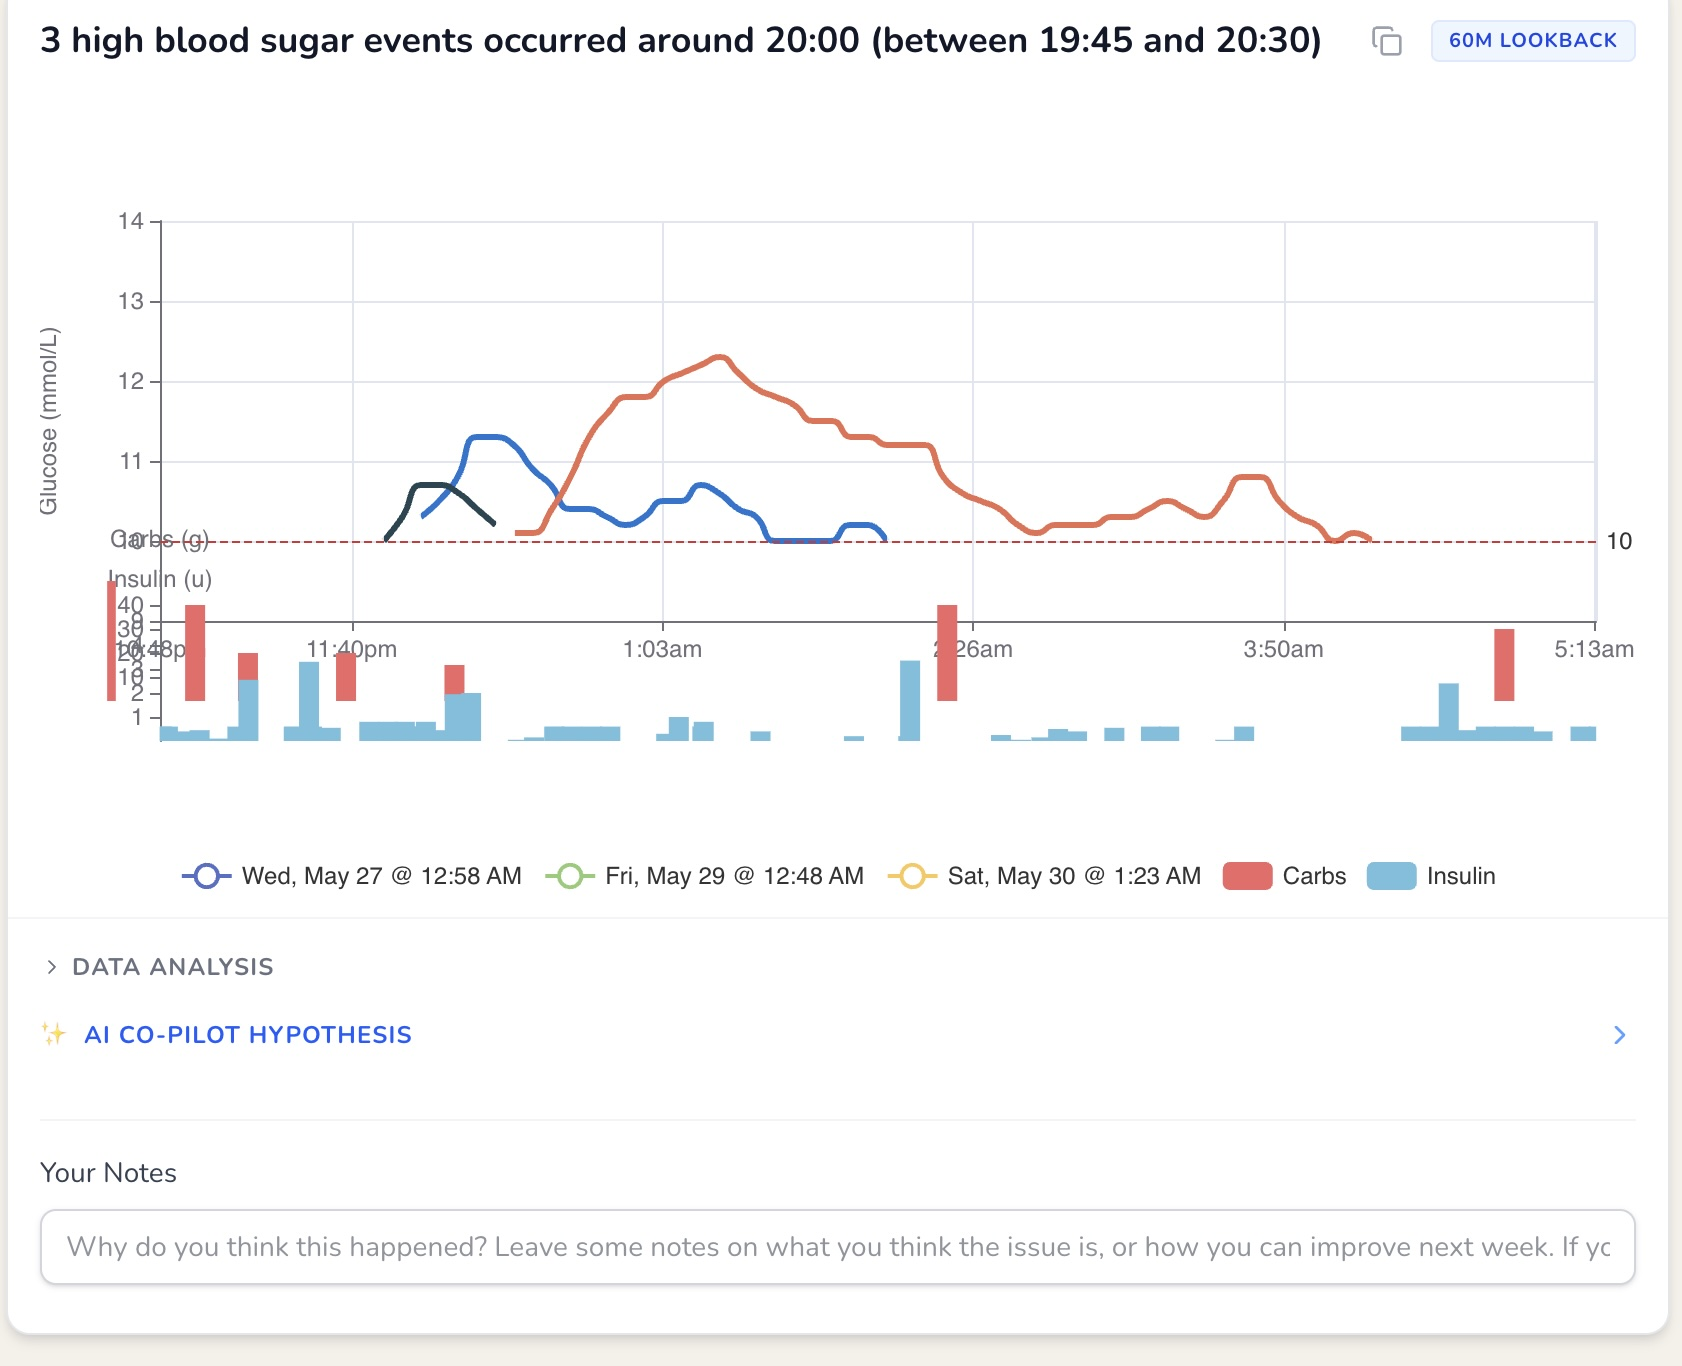
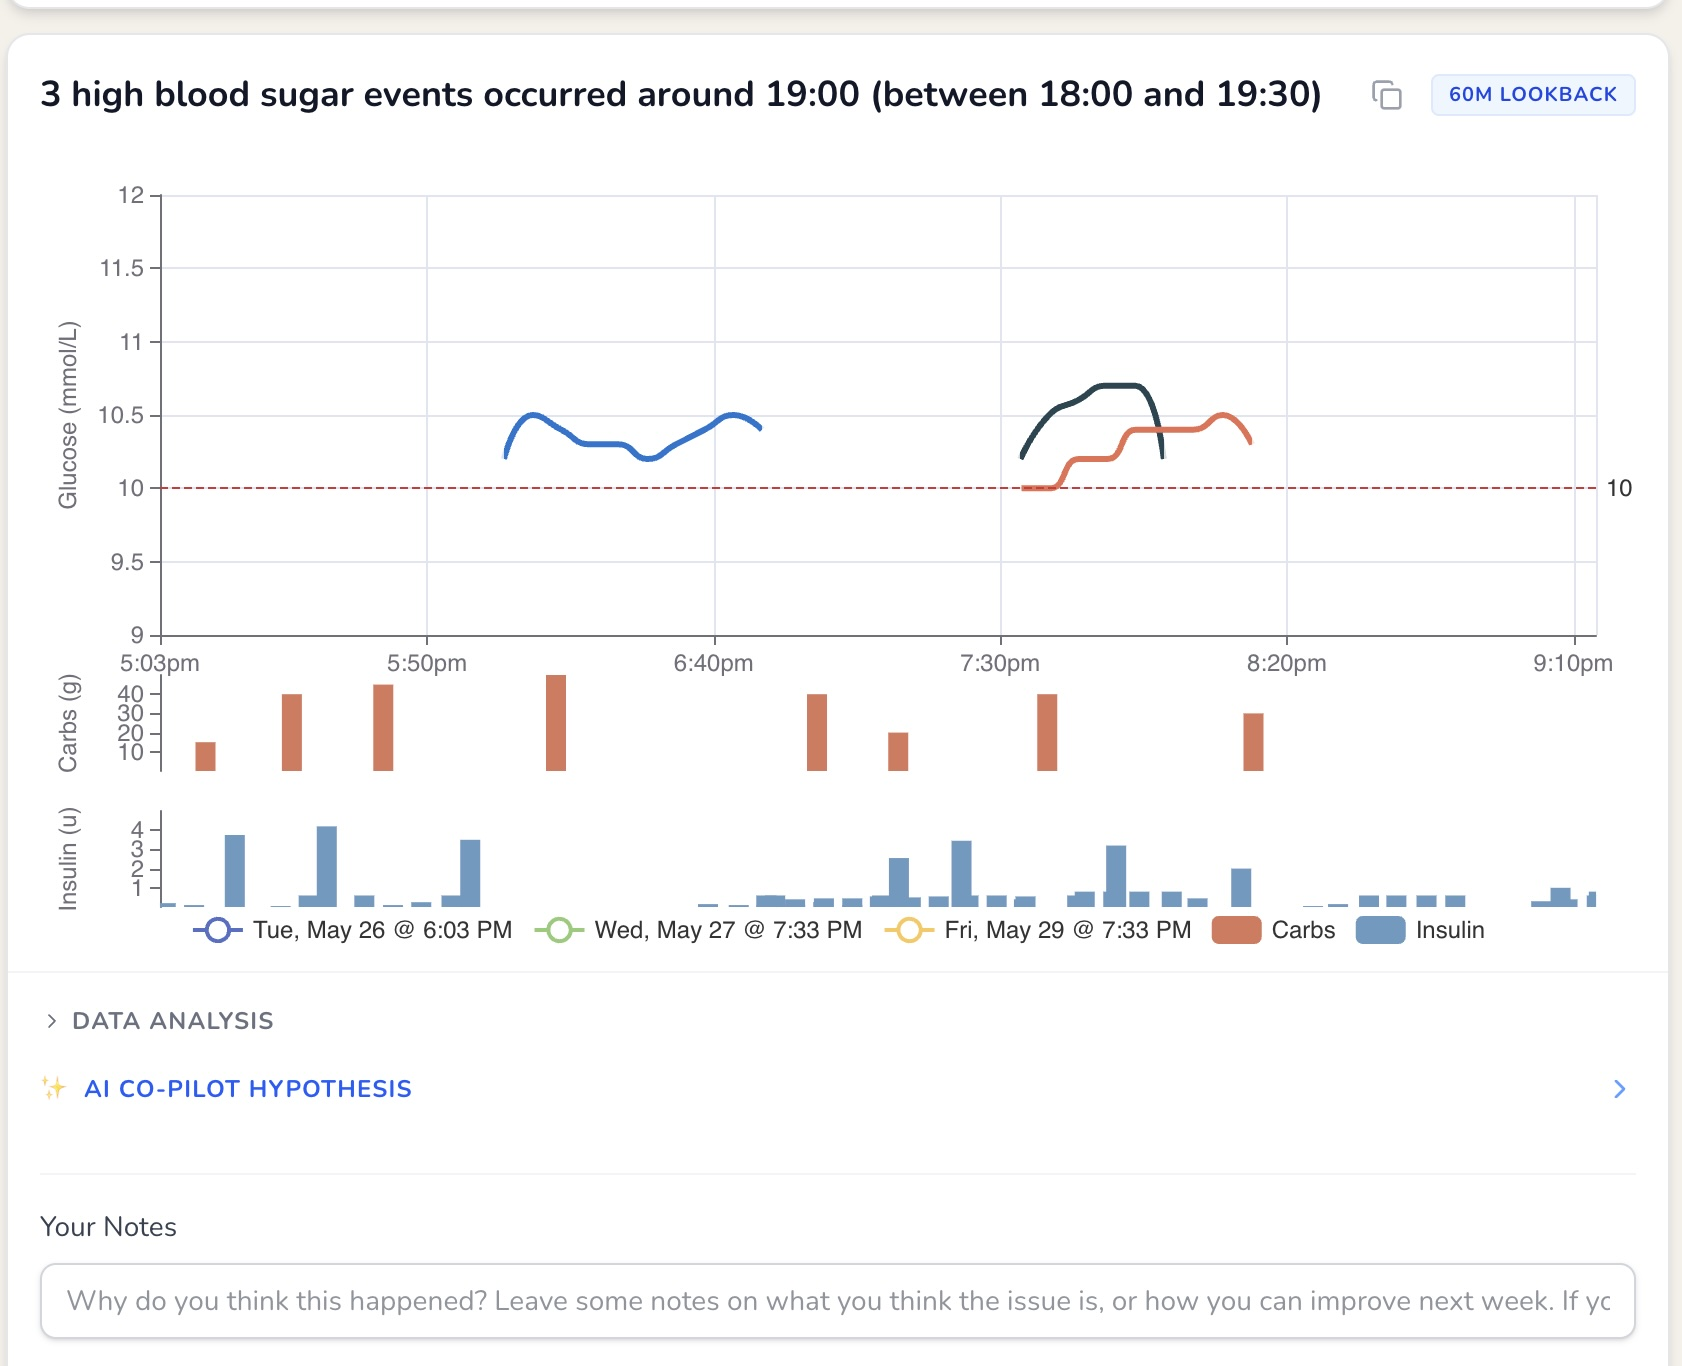
fix(frontend): restore high-fidelity layout with 180m padding and linked interaction

diff --git a/frontend/src/components/journal/charts/ClusterEventsChart.tsx b/frontend/src/components/journal/charts/ClusterEventsChart.tsx
@@ -24,6 +24,7 @@ import {
   normalizeTime,
   formatAxisLabel,
   getLocalWallClockDate,
+  calculateCommonDomain,
 } from "./chartUtils";
 
 // Register components
@@ -46,7 +47,6 @@ interface ClusterEventsChartProps {
   evidenceWindowMins?: number;
 }
 
-// Buffer in minutes to search for treatments around an event
 const TREATMENT_BUFFER_MINUTES = 180;
 
 interface EChartsEventParams {
@@ -148,17 +148,17 @@ export function ClusterEventsChart({
 
       if (validEvents.length === 0) return null;
 
-      let globalMinNormalized = Infinity;
-      let globalMaxNormalized = -Infinity;
-      validEvents.forEach((event) => {
-        const nStart = normalizeTime(event.startTime, boundaryHour);
-        const nEnd = normalizeTime(event.endTime, boundaryHour);
-        if (nStart < globalMinNormalized) globalMinNormalized = nStart;
-        if (nEnd > globalMaxNormalized) globalMaxNormalized = nEnd;
-      });
-
       const series: object[] = [];
       const visualMaps: object[] = [];
+
+      // Link by Day to allow shared naming/highlighting
+      const uniqueDays = Array.from(
+        new Set(
+          validEvents.map((e) =>
+            format(getLocalWallClockDate(e.startTime), "EEE, MMM d"),
+          ),
+        ),
+      );
 
       validEvents.forEach((event, index) => {
         const normalizedStartTime = normalizeTime(
@@ -166,7 +166,12 @@ export function ClusterEventsChart({
           boundaryHour,
         );
         const originalStartTimeMillis = new Date(event.startTime).getTime();
-        const visuals = getEventVisuals(index);
+        const dayName = format(
+          getLocalWallClockDate(event.startTime),
+          "EEE, MMM d",
+        );
+        const dayIndex = uniqueDays.indexOf(dayName);
+        const visuals = getEventVisuals(dayIndex);
         const durationMillis =
           new Date(event.endTime).getTime() - originalStartTimeMillis;
         const normalizedEndTime = normalizedStartTime + durationMillis;
@@ -185,20 +190,16 @@ export function ClusterEventsChart({
           .filter((d): d is { value: [number, number]; originalDate: string } =>
             Boolean(d),
           );
-        // Add Line Series
+
         series.push({
-          name: format(
-            getLocalWallClockDate(event.startTime),
-            "EEE, MMM d @ p",
-          ),
+          name: dayName,
           type: "line",
           data: seriesData,
           showSymbol: false,
           smooth: true,
           lineStyle: { width: 3 },
-
           emphasis: { focus: "series", lineStyle: { width: 5 } },
-          blur: { lineStyle: { opacity: 0.2 } },
+          blur: { lineStyle: { opacity: 0.15 } },
           markLine:
             index === 0
               ? {
@@ -207,11 +208,17 @@ export function ClusterEventsChart({
                   data: [
                     {
                       yAxis: thresholds.high,
-                      lineStyle: { color: CHART_THEME.clinicalHigh },
+                      lineStyle: {
+                        color: CHART_THEME.clinicalHigh,
+                        type: "dashed",
+                      },
                     },
                     {
                       yAxis: thresholds.low,
-                      lineStyle: { color: CHART_THEME.clinicalLow },
+                      lineStyle: {
+                        color: CHART_THEME.clinicalLow,
+                        type: "dashed",
+                      },
                     },
                   ],
                 }
@@ -238,6 +245,9 @@ export function ClusterEventsChart({
         });
       });
 
+      const hasCarbData = treatments.some((t) => t.carbs && t.carbs > 0);
+      const hasInsulinData = treatments.some((t) => t.insulin && t.insulin > 0);
+
       const buildBarSeries = (
         type: "carbs" | "insulin",
         color: string,
@@ -250,16 +260,21 @@ export function ClusterEventsChart({
             event.startTime,
             boundaryHour,
           );
-          const eventEndTime = new Date(event.endTime).getTime();
+          const dayName = format(
+            getLocalWallClockDate(event.startTime),
+            "EEE, MMM d",
+          );
           const searchStart = eventStart - TREATMENT_BUFFER_MINUTES * 60000;
-          const searchEnd = eventEndTime + TREATMENT_BUFFER_MINUTES * 60000;
+          const searchEnd =
+            new Date(event.endTime).getTime() +
+            TREATMENT_BUFFER_MINUTES * 60000;
 
           treatments.forEach((t) => {
             const tTime = new Date(t.date).getTime();
             const val = type === "carbs" ? t.carbs : t.insulin;
             if (val && val > 0 && tTime >= searchStart && tTime <= searchEnd) {
               data.push({
-                name: format(tTime, "p"),
+                name: dayName, // Shared name for highlighting
                 value: [normalizedStartTime + (tTime - eventStart), val],
                 originalDate: t.date,
                 originalValue: val,
@@ -270,18 +285,16 @@ export function ClusterEventsChart({
         });
         if (data.length === 0) return null;
         return {
-          name: type === "carbs" ? "Carbs" : "Insulin",
+          name: "Treatments",
           type: "bar",
           xAxisIndex: axisIndex,
           yAxisIndex: axisIndex,
           data,
-          itemStyle: { color },
-          barWidth: 10,
+          itemStyle: { color, opacity: 0.8 },
+          barWidth: 8,
         };
       };
 
-      const hasCarbData = treatments.some((t) => t.carbs && t.carbs > 0);
-      const hasInsulinData = treatments.some((t) => t.insulin && t.insulin > 0);
       const carbSeries = buildBarSeries("carbs", CHART_THEME.treatmentCarbs, 1);
       const insulinSeries = buildBarSeries(
         "insulin",
@@ -292,85 +305,90 @@ export function ClusterEventsChart({
       if (carbSeries) series.push(carbSeries);
       if (insulinSeries) series.push(insulinSeries);
 
-      const grid: object[] = [];
-      const xAxis: object[] = [];
-      const yAxis: object[] = [];
-
-      const mainGridHeight = hasCarbData || hasInsulinData ? "55%" : "75%";
-
-      grid.push({ top: "5%", left: 60, right: 20, height: mainGridHeight });
-      xAxis.push({
-        type: "value",
-        gridIndex: 0,
-        min: globalMinNormalized - 60 * 60000,
-        max: globalMaxNormalized + 60 * 60000,
-        axisLabel: {
-          formatter: (v: number) => formatAxisLabel(v, boundaryHour),
+      // --- Precise Vertical Layout ---
+      const commonDomain = calculateCommonDomain(
+        series as { data: { value: (number | string)[] }[] }[],
+        180,
+      ); // 3-hour buffer
+      const grid: object[] = [
+        {
+          top: "8%",
+          left: "8%",
+          right: "4%",
+          height: hasCarbData || hasInsulinData ? "50%" : "75%",
+          containLabel: true,
         },
-      });
-      yAxis.push({
-        type: "value",
-        gridIndex: 0,
-        name: `Glucose (${isMmol ? "mmol/L" : "mg/dL"})`,
-        nameLocation: "middle",
-        nameRotate: 90,
-        nameGap: 40,
-        min: (v: { min: number }) => Math.floor(v.min * 0.9),
-        max: (v: { max: number }) => Math.ceil(v.max * 1.1),
-      });
+      ];
+      const xAxis: object[] = [
+        {
+          type: "value",
+          gridIndex: 0,
+          min: commonDomain?.min,
+          max: commonDomain?.max,
+          axisLabel: { formatter: (v: number) => formatAxisLabel(v) },
+          splitLine: { show: false },
+        },
+      ];
+      const yAxis: object[] = [
+        {
+          type: "value",
+          gridIndex: 0,
+          name: `Glucose (${isMmol ? "mmol/L" : "mg/dL"})`,
+          nameLocation: "middle",
+          nameRotate: 90,
+          nameGap: 45,
+          min: (v: { min: number }) => Math.floor(v.min * 0.9),
+          max: (v: { max: number }) => Math.ceil(v.max * 1.1),
+        },
+      ];
 
-      let currentTop = 65; // percentage
-
-      if (hasCarbData || hasInsulinData) {
-        const subGridHeight = hasCarbData && hasInsulinData ? "12%" : "25%";
-
-        if (hasCarbData) {
-          grid.push({
-            left: 60,
-            right: 20,
-            top: `${currentTop}%`,
-            height: subGridHeight,
-          });
-          xAxis.push({
-            type: "value",
-            gridIndex: grid.length - 1,
-            show: false,
-            min: globalMinNormalized - 60 * 60000,
-            max: globalMaxNormalized + 60 * 60000,
-          });
-          yAxis.push({
-            type: "value",
-            gridIndex: grid.length - 1,
-            name: "Carbs (g)",
-            splitLine: { show: false },
-            nameLocation: "middle",
-            nameGap: 40,
-          });
-          currentTop += 17;
-        }
-        if (hasInsulinData) {
-          grid.push({
-            left: 60,
-            right: 20,
-            top: `${currentTop}%`,
-            height: subGridHeight,
-          });
-          xAxis.push({
-            type: "value",
-            gridIndex: grid.length - 1,
-            show: false,
-            min: globalMinNormalized - 60 * 60000,
-            max: globalMaxNormalized + 60 * 60000,
-          });
-          yAxis.push({
-            type: "value",
-            gridIndex: grid.length - 1,
-            name: "Insulin (u)",
-            splitLine: { show: false },
-            nameLocation: "middle",
-            nameGap: 40,
-          });
-        }
+      if (hasCarbData) {
+        grid.push({
+          left: "8%",
+          right: "4%",
+          top: "65%",
+          height: hasInsulinData ? "12%" : "25%",
+          containLabel: true,
+        });
+        xAxis.push({
+          type: "value",
+          gridIndex: grid.length - 1,
+          show: false,
+          min: commonDomain?.min,
+          max: commonDomain?.max,
+        });
+        yAxis.push({
+          type: "value",
+          gridIndex: grid.length - 1,
+          name: "Carbs (g)",
+          nameLocation: "middle",
+          nameGap: 45,
+          splitLine: { show: false },
+        });
+      }
+      if (hasInsulinData) {
+        grid.push({
+          left: "8%",
+          right: "4%",
+          top: hasCarbData ? "82%" : "65%",
+          height: hasCarbData ? "12%" : "25%",
+          containLabel: true,
+        });
+        xAxis.push({
+          type: "value",
+          gridIndex: grid.length - 1,
+          show: false,
+          min: commonDomain?.min,
+          max: commonDomain?.max,
+        });
+        yAxis.push({
+          type: "value",
+          gridIndex: grid.length - 1,
+          name: "Insulin (u)",
+          nameLocation: "middle",
+          nameGap: 45,
+          splitLine: { show: false },
+        });
       }
 
       return {
@@ -382,21 +400,15 @@ export function ClusterEventsChart({
             const dateSource = (p.data.originalDate || p.data.value[0]) as
               | string
               | number;
-
-            let timeStr = "";
-            if (typeof dateSource === "string") {
-              timeStr = format(getLocalWallClockDate(dateSource), "h:mm a");
-            } else {
-              timeStr = formatAxisLabel(dateSource);
-            }
-
+            const timeStr =
+              typeof dateSource === "string"
+                ? format(getLocalWallClockDate(dateSource), "h:mm a")
+                : formatAxisLabel(Number(dateSource));
             let content = `<div><span style="display:inline-block;margin-right:5px;border-radius:10px;width:9px;height:9px;background-color:${p.color};"></span>${p.seriesName}</div>`;
             content += `<div>${timeStr}</div>`;
-
             if (p.seriesType === "line") {
-              const unitLabel = isMmol ? "mmol/L" : "mg/dL";
-              content += `<div>Glucose: <strong>${p.data.value[1]}</strong> ${unitLabel}</div>`;
-            } else if (p.seriesType === "bar") {
+              content += `<div>Glucose: <strong>${p.data.value[1]}</strong> ${isMmol ? "mmol/L" : "mg/dL"}</div>`;
+            } else {
               const label =
                 p.data.treatmentType === "carbs" ? "Carbs" : "Insulin";
               const unit = p.data.treatmentType === "carbs" ? "g" : "u";
@@ -413,18 +425,18 @@ export function ClusterEventsChart({
         series,
       };
     } catch (err) {
-      console.error("[ClusterEventsChart] Critical error in useMemo:", err);
+      const msg = err instanceof Error ? err.message : String(err);
+      console.error("[ClusterEventsChart] Critical error:", msg);
       return null;
     }
   }, [cluster, units, treatments, boundaryHour]);
 
-  if (!options) {
+  if (!options)
     return (
       <div className="flex items-center justify-center h-64 bg-slate-50 border rounded-lg text-slate-400 italic">
         Unable to generate visualization.
       </div>
     );
-  }
 
   return (
     <div ref={containerRef} className="w-full h-96 min-h-[400px]">

diff --git a/frontend/src/components/journal/charts/__tests__/ClusterEventsChart.test.tsx b/frontend/src/components/journal/charts/__tests__/ClusterEventsChart.test.tsx
@@ -80,11 +80,11 @@ describe("ClusterEventsChart", () => {
     expect(xAxis[0].max).toBe(xAxis[1].max);
 
     // 13:30 is the earliest point (Normalization uses Jan 1st 2000)
-    // Padding is 60 mins (3,600,000 ms)
+    // Padding is 180 mins (10,800,000 ms)
     const startTime = new Date("2000-01-01T13:30:00.000Z").getTime();
     const endTime = new Date("2000-01-01T15:00:00.000Z").getTime();
-    const expectedMin = startTime - 60 * 60000;
-    const expectedMax = endTime + 60 * 60000;
+    const expectedMin = startTime - 180 * 60000;
+    const expectedMax = endTime + 180 * 60000;
 
     // Use a manual tolerance of 1 hour (3,600,000 ms) to account for historical timezone noise
     // while still verifying the logic of the common domain calculation.
